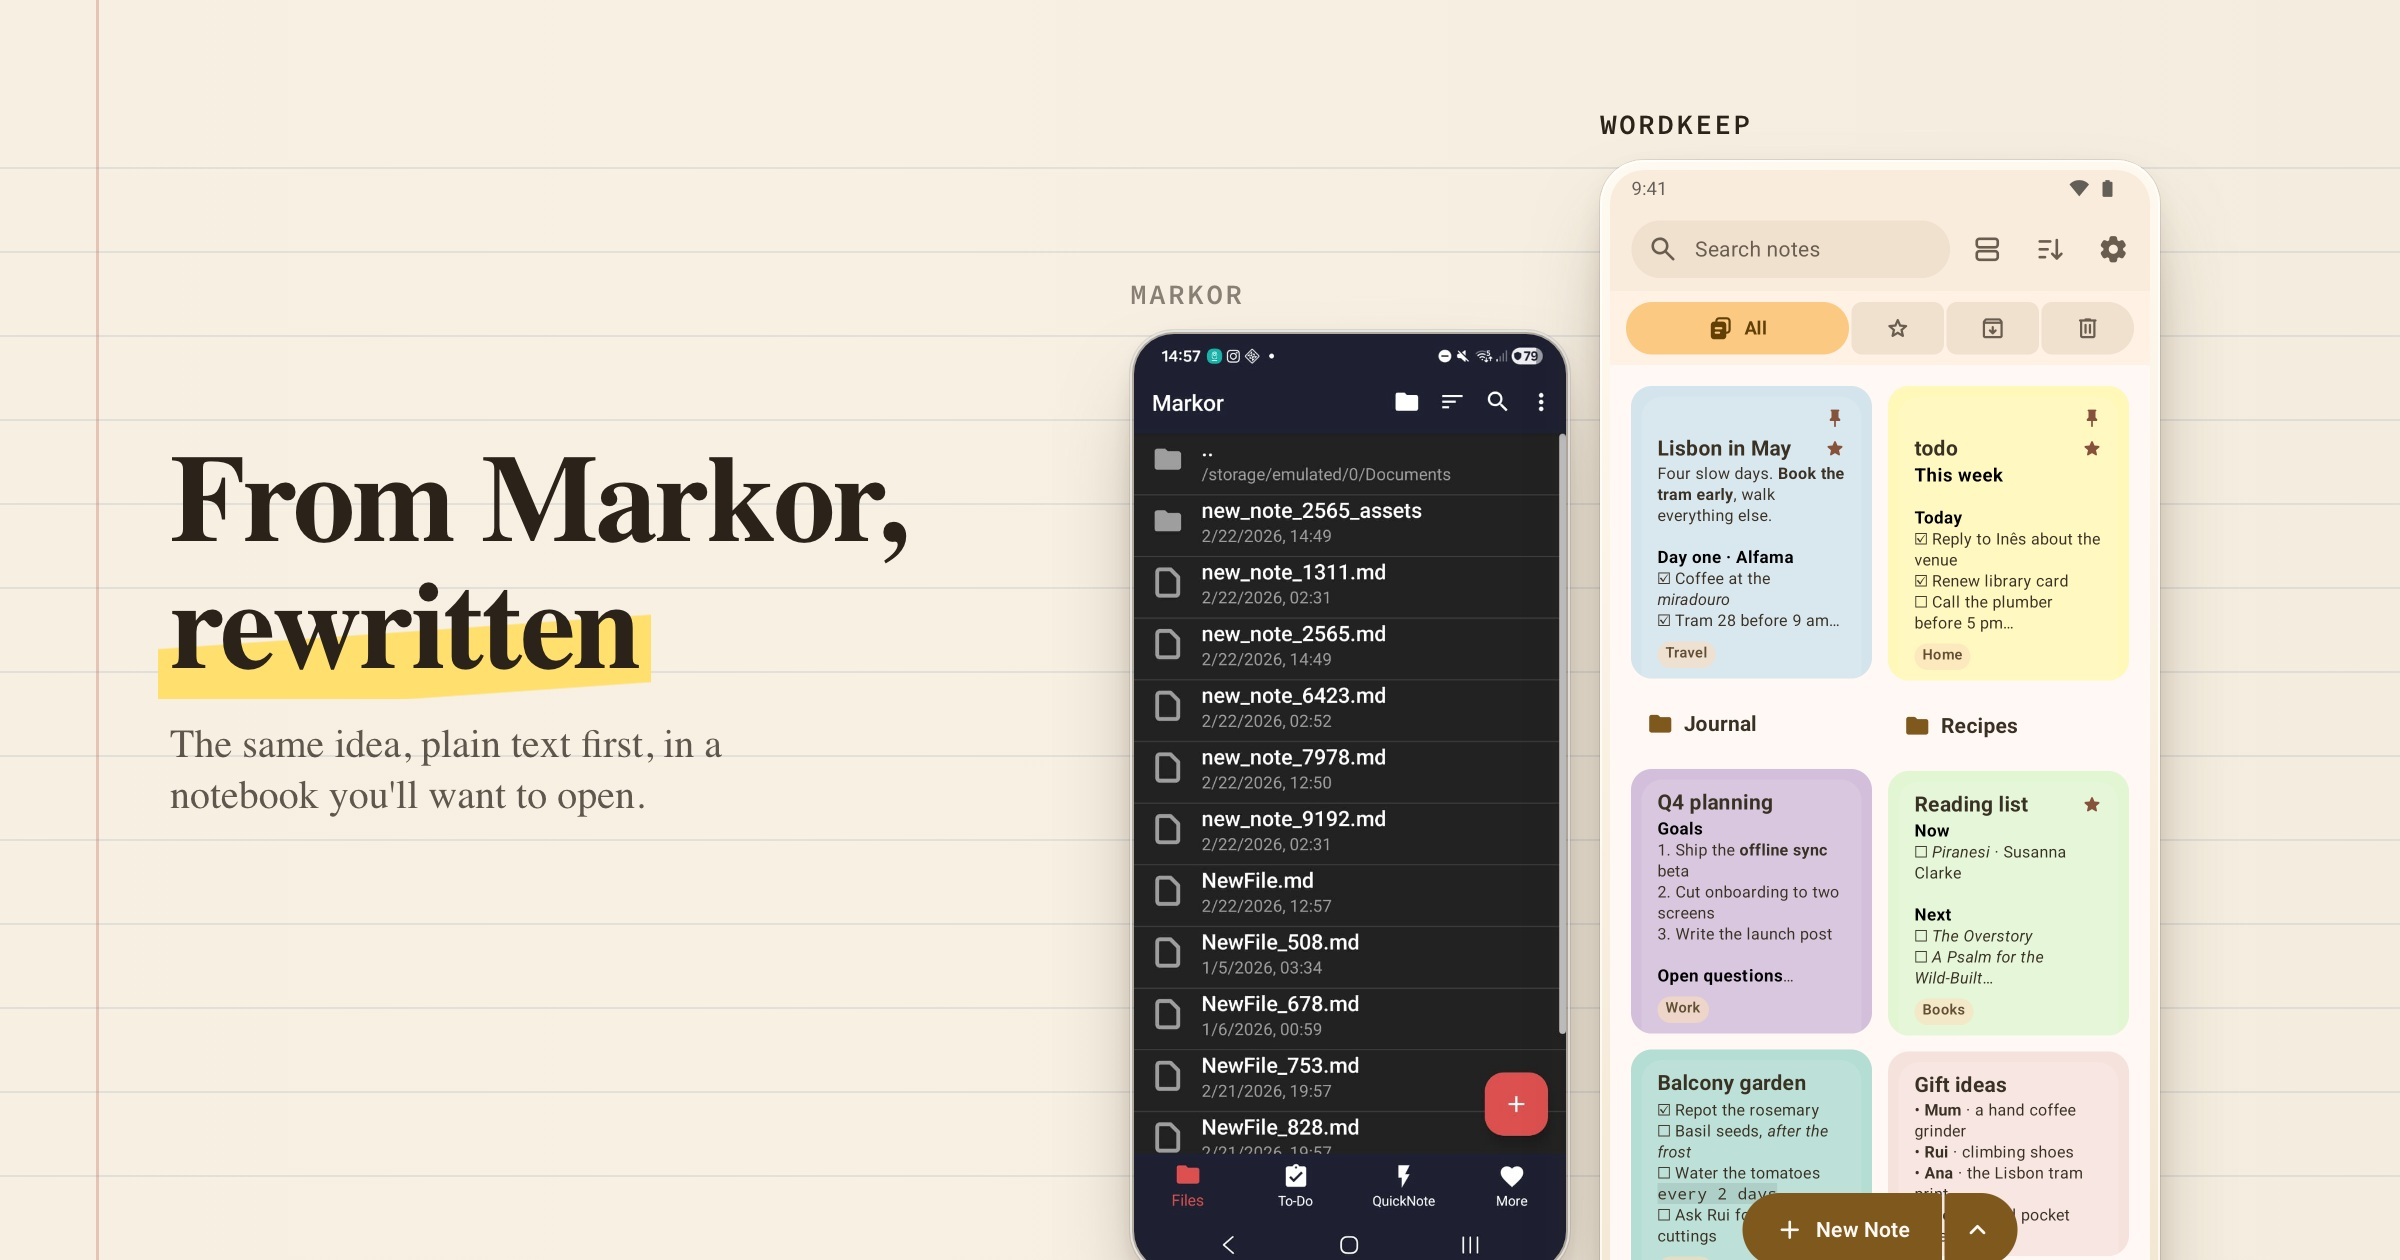
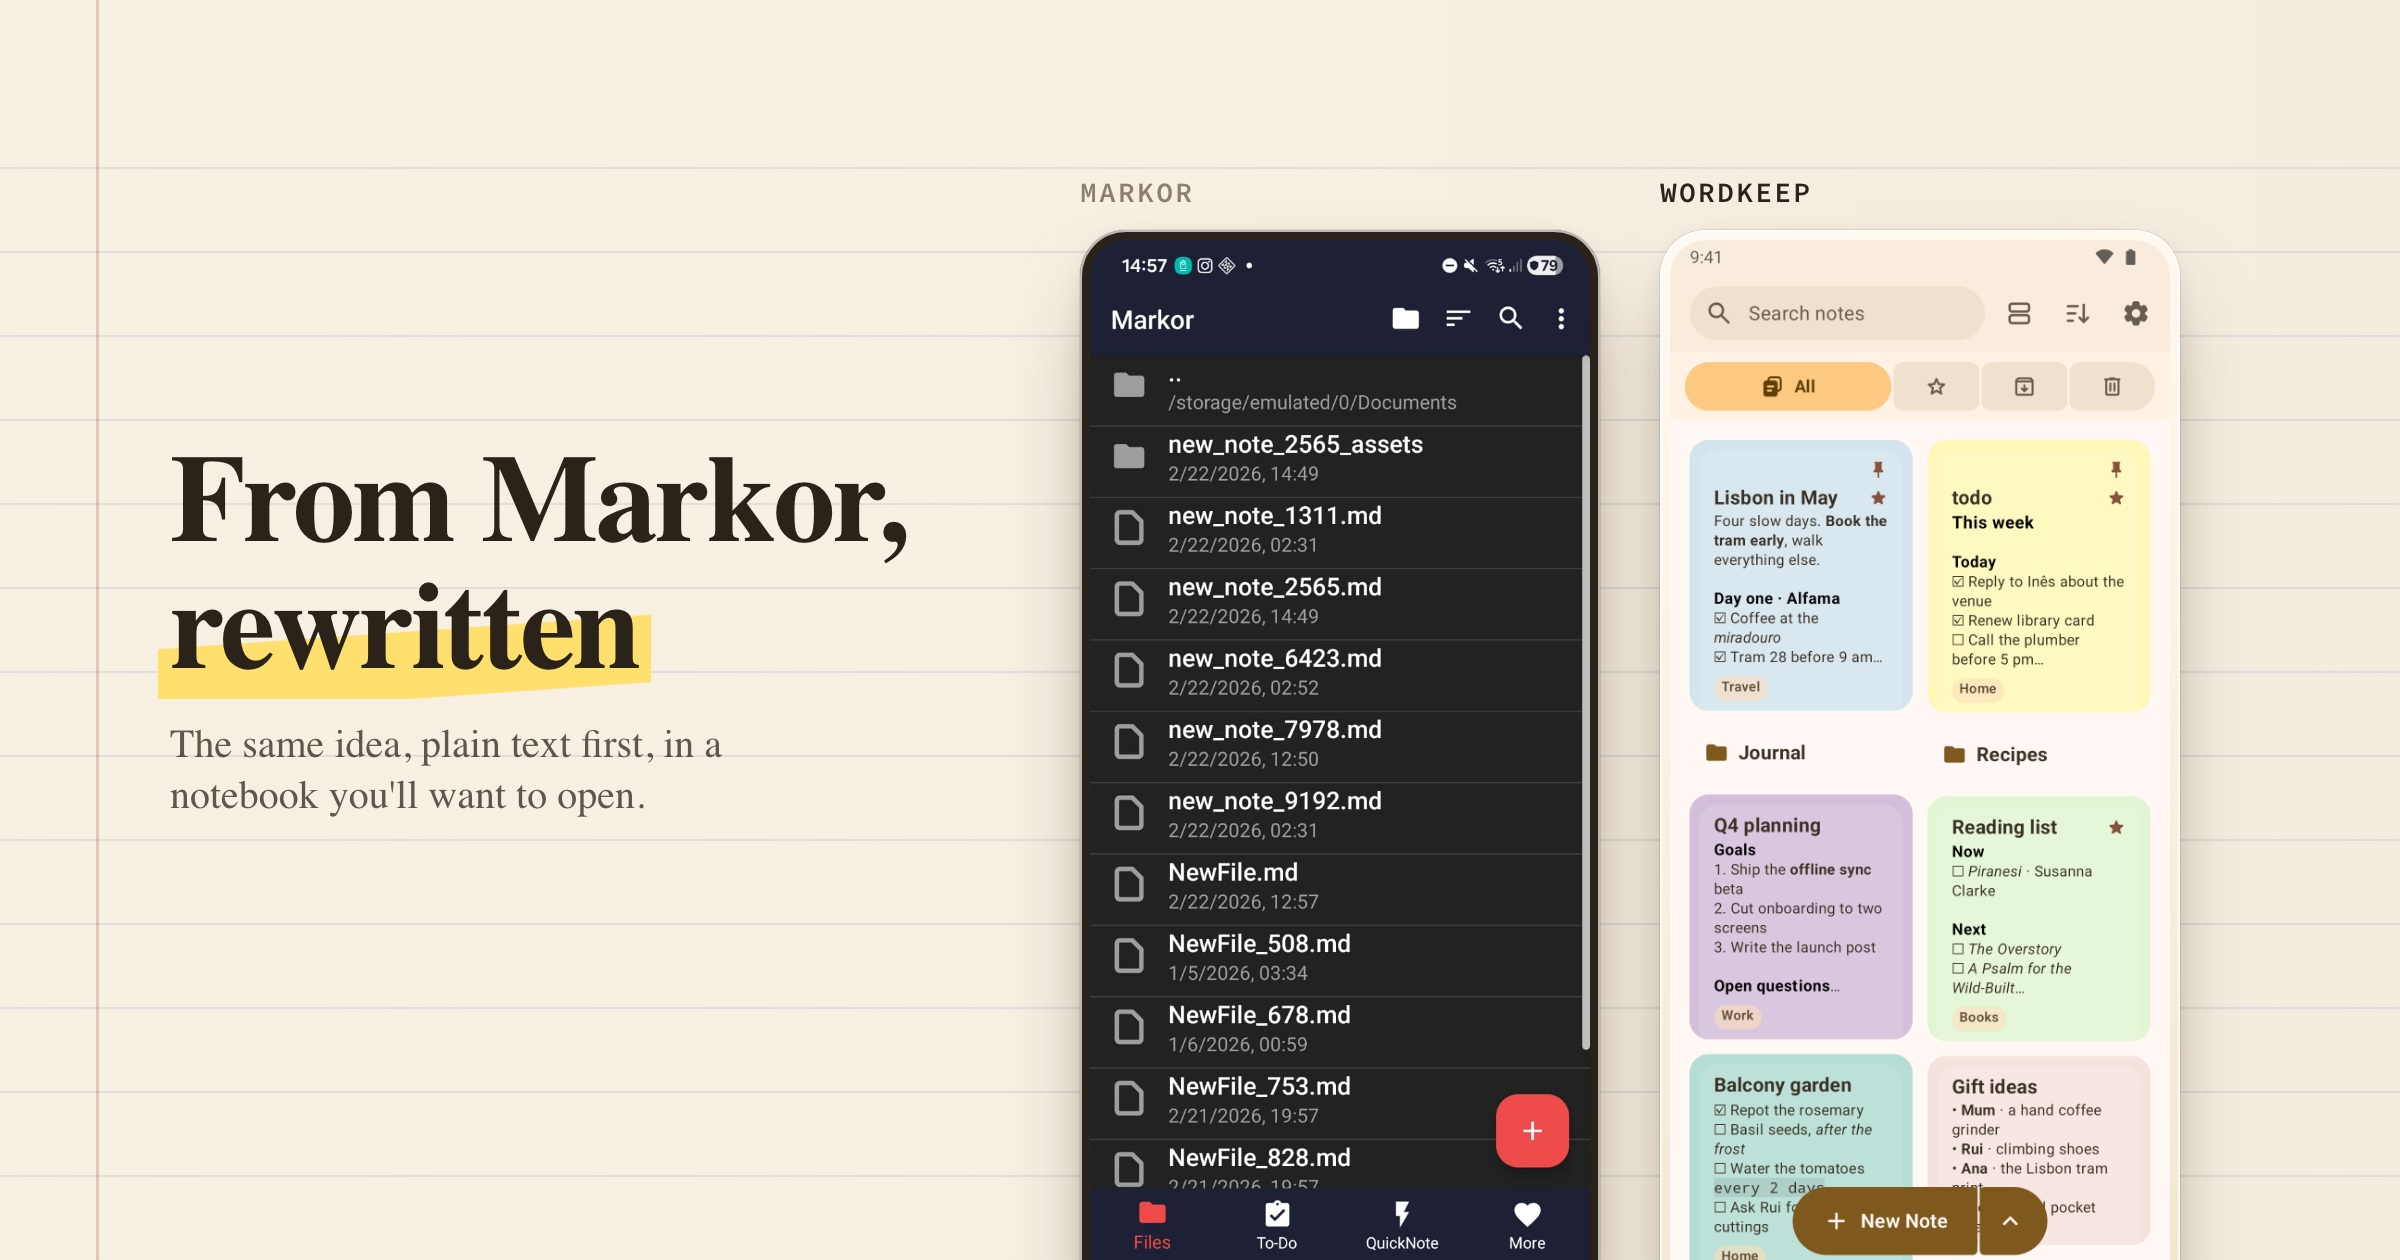
Show Markor and Wordkeep at the same size in the comparison

Changed region(s): [[0.4375, 0.0929, 0.9062, 1.0]]

diff --git a/store-listing/theme.css b/store-listing/theme.css
@@ -84,11 +84,11 @@ html[data-strip="first"] .glyph.seam-left,html[data-strip="last"] .glyph.seam-ri
 .readme .spread .phone{--bezel:12px;--radius:60px;left:900px;top:520px;width:420px;z-index:4}
 .tablet7 .brand{left:120px}
 
-/* README comparison as a spread: the headline on the left page; Markor a step back and smaller, Wordkeep in front.
-   A small monospace label sits above each phone. */
-.readme .compare-spread .device{--radius:44px}
-.readme .compare-spread .before{--bezel:4px;left:1130px;top:330px;width:440px;background:#2B221955;filter:saturate(.85)}
-.readme .compare-spread .after{--bezel:10px;left:1600px;top:160px;width:560px;z-index:3}
-.readme .compare-spread .device-label{transform:translateY(calc(-100% - 22px));text-align:left;font:600 28px/1 Mono,monospace;letter-spacing:.08em;background:none}
+/* README comparison as a spread: the headline on the left page, then Markor and Wordkeep side by side at exactly
+   the same size and height, so only the apps differ. A small monospace label sits above each phone. */
+.readme .compare-spread .device{--radius:46px;--bezel:10px;top:230px;width:520px}
+.readme .compare-spread .before{left:1080px;background:#2B2219}
+.readme .compare-spread .after{left:1660px}
+.readme .compare-spread .device-label{transform:translateY(calc(-100% - 24px));text-align:left;font:600 28px/1 Mono,monospace;letter-spacing:.08em;background:none}
 .readme .compare-spread .device-label.before{color:#8a7f72}
 .readme .compare-spread .device-label.after{color:var(--ink)}
